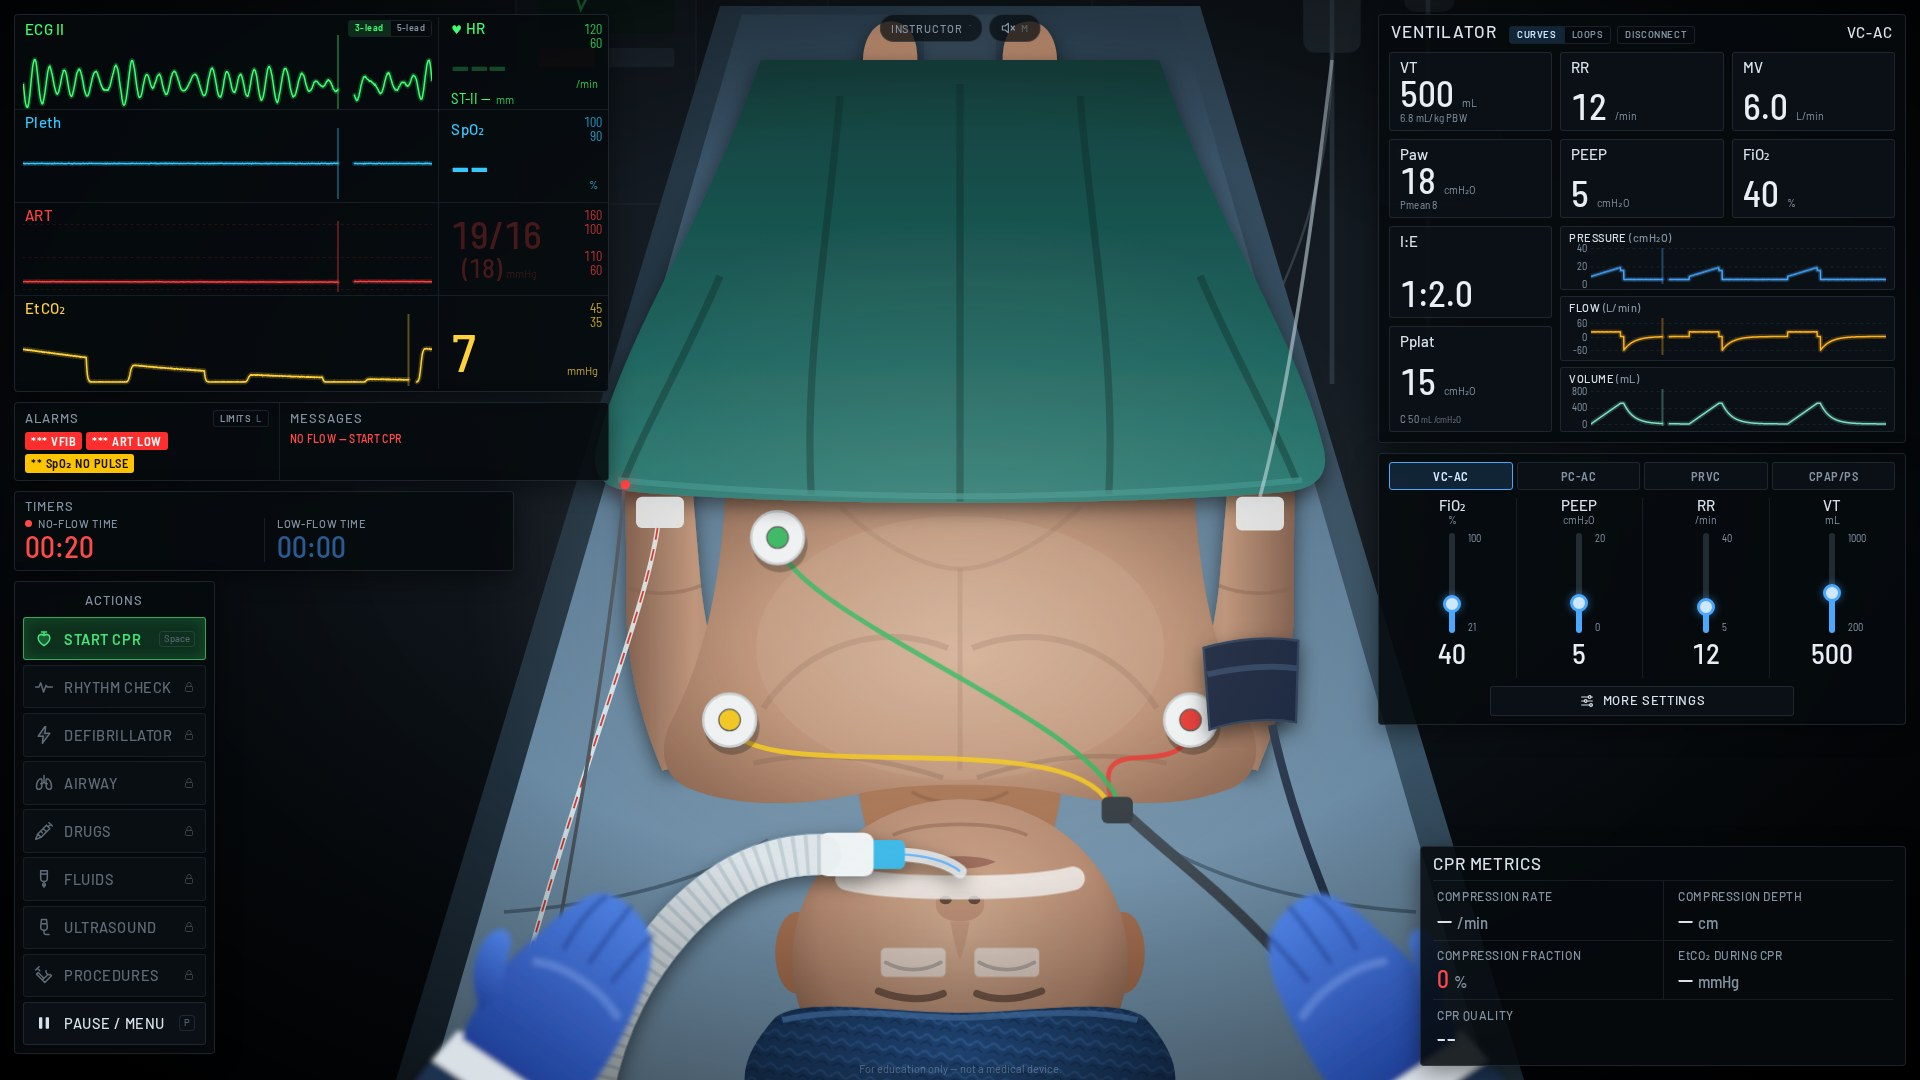
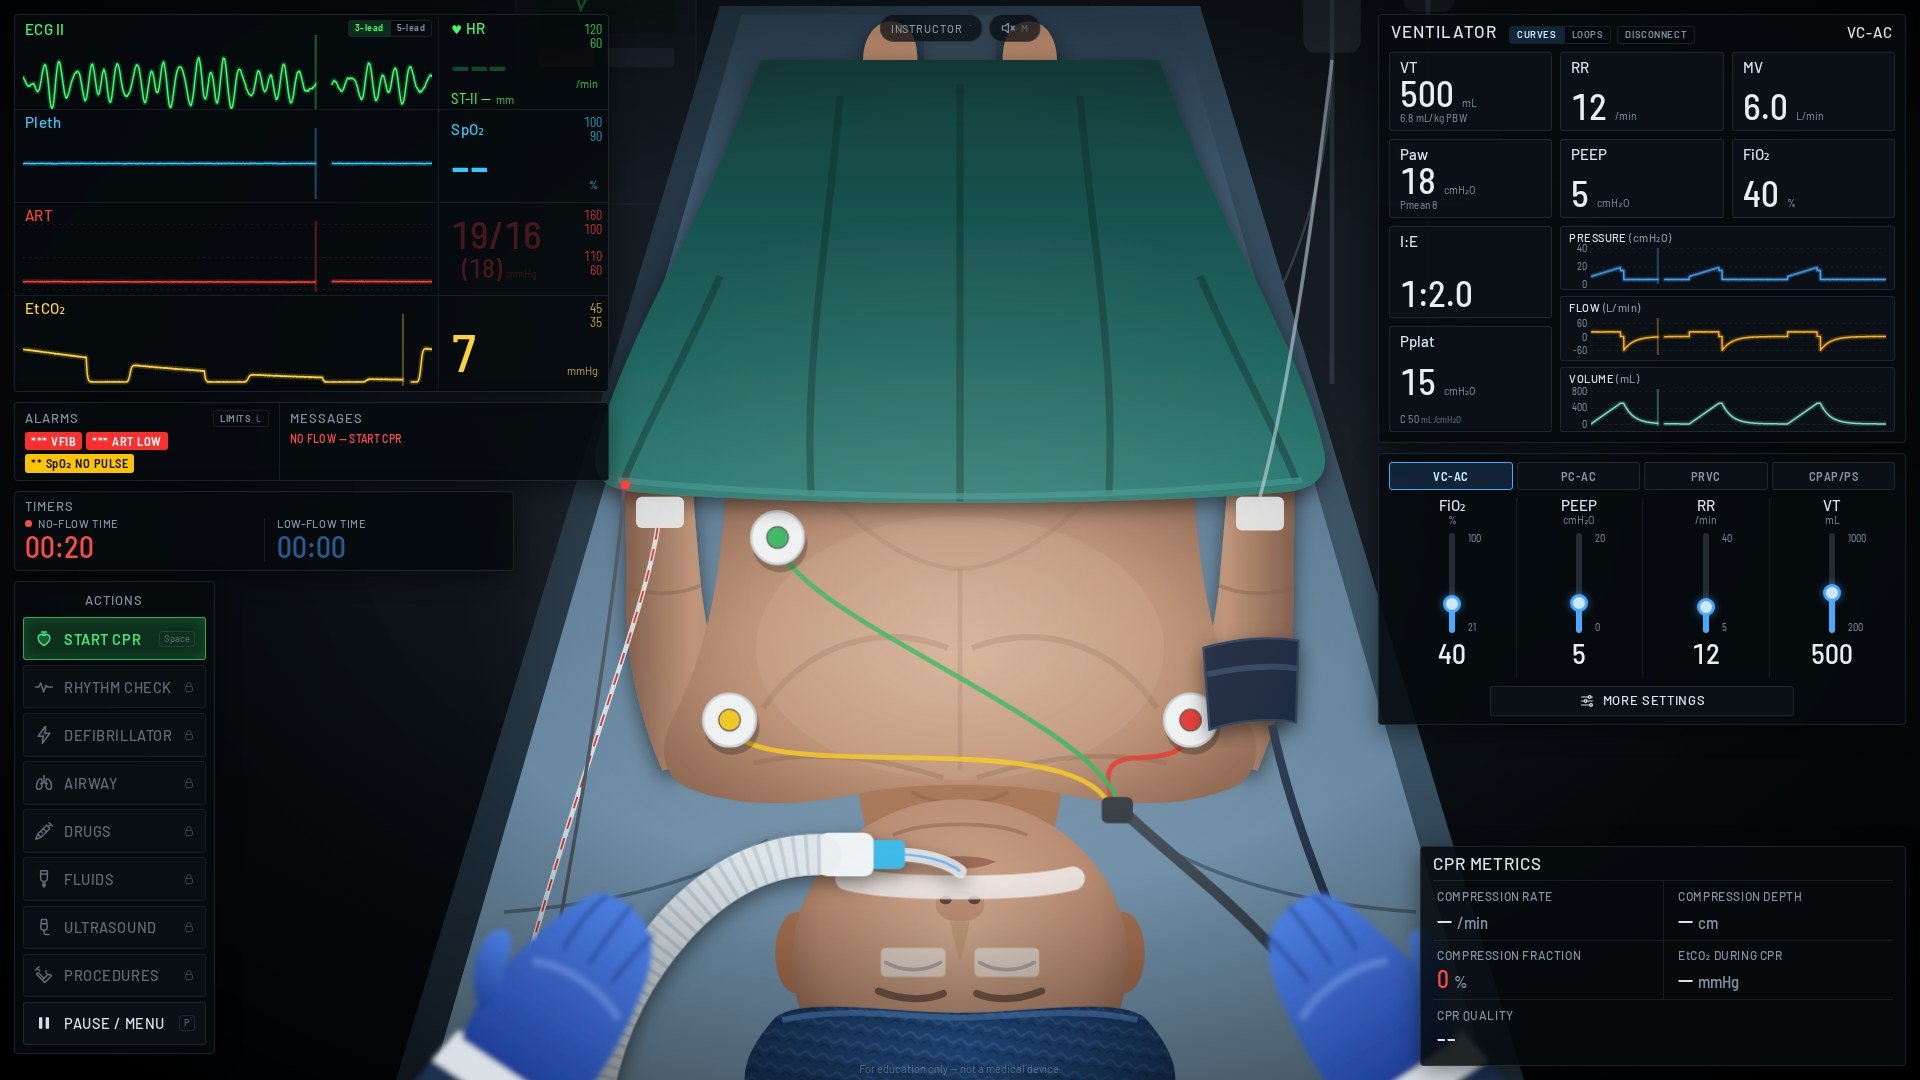
Split HR LOW into medium (below 60) and high priority (below bradycardia limit 45)
Adds an adjustable bradycardia limit that works like the desaturation
limit: it stays at least 5/min below HR LOW and is pulled down with it.

Claude-Session: https://claude.ai/code/session_01VvDhrbZNjq1jLKeWpgn4kZ

Changed region(s): [[0.0, 0.0611, 0.25, 0.0917], [0.1562, 0.2444, 0.1875, 0.275], [0.1562, 0.1222, 0.1875, 0.1528]]

diff --git a/src/sim/devices/alarmLimits.ts b/src/sim/devices/alarmLimits.ts
@@ -16,7 +16,8 @@ export interface LimitSpec {
 /**
  * Adjustable monitor alarm limits (defaults chosen for anaesthetised adults: HR 60–120, SYS 100–160, EtCO2
  * 35–45 — tight on purpose; the ranges are what the knob allows).
- * - hr: HR LOW (high priority) / HR HIGH (medium)
+ * - hr: HR LOW (medium) / HR HIGH (medium)
+ * - brady: bradycardia limit — below it HR LOW escalates to high priority
  * - spo2: SpO2 LOW (medium) / SpO2 HIGH (medium, 100 = effectively off)
  * - desat: desaturation limit — below it SpO2 LOW escalates to high priority
  * - artSys, artMean: ART LOW (high) / ART HIGH (medium) when systolic or mean is outside its limits
@@ -29,6 +30,7 @@ export const ALARM_LIMIT_SPECS: Record<AlarmLimitParam, LimitSpec> = {
     low: { min: 25, max: 150, step: 5, default: 60 },
     high: { min: 60, max: 220, step: 5, default: 120 },
   },
+  brady: { unit: '/min', low: { min: 20, max: 145, step: 5, default: 45 } },
   spo2: {
     unit: '%',
     low: { min: 70, max: 99, step: 1, default: 90 },
@@ -71,9 +73,19 @@ function snap(v: number, r: LimitRange): number {
 }
 
 /**
+ * Critical (high-priority) companion limits: each sits below its parent's LOW limit by at least `gap`.
+ * Between the two limits the parent's LOW alarm is medium priority; below the critical limit it is high.
+ */
+const CRITICAL: Partial<Record<AlarmLimitParam, { parent: AlarmLimitParam; gap: number }>> = {
+  brady: { parent: 'hr', gap: 5 },
+  desat: { parent: 'spo2', gap: 1 },
+};
+
+/**
  * Set one bound and return the new limits. Values are snapped to the knob step and clamped to the range; a low
- * limit always stays at least one step below the high limit (and the desaturation limit below SpO2 LOW), like
- * a real monitor that refuses crossed limits. Invalid input leaves the limits unchanged.
+ * limit always stays at least one step below the high limit, and a critical limit (bradycardia, desaturation)
+ * below its parent's LOW limit, like a real monitor that refuses crossed limits. Invalid input leaves the
+ * limits unchanged.
  */
 export function setAlarmLimit(
   limits: AlarmLimits,
@@ -88,13 +100,22 @@ export function setAlarmLimit(
   const cur = limits[param];
   if (bound === 'low' && cur.high !== null) v = Math.min(v, cur.high - range.step);
   if (bound === 'high' && cur.low !== null) v = Math.max(v, cur.low + range.step);
-  if (param === 'desat' && limits.spo2.low !== null) v = Math.min(v, limits.spo2.low - 1);
+  const crit = CRITICAL[param];
+  const parentLow = crit ? limits[crit.parent].low : null;
+  if (crit && parentLow !== null) v = Math.min(v, parentLow - crit.gap);
   v = snap(v, range);
   const next: AlarmLimits = { ...limits, [param]: { ...cur, [bound]: v } };
-  // Raising SpO2 LOW never leaves the desaturation limit above it, and lowering it pulls desat along.
-  if (param === 'spo2' && bound === 'low' && next.desat.low !== null && next.desat.low >= v) {
-    const d = ALARM_LIMIT_SPECS.desat.low;
-    if (d) next.desat = { low: snap(v - 1, d), high: null };
+  // Lowering a parent's LOW limit pulls its critical limit along so it always stays below.
+  if (bound === 'low') {
+    for (const [child, c] of Object.entries(CRITICAL) as [
+      AlarmLimitParam,
+      { parent: AlarmLimitParam; gap: number },
+    ][]) {
+      const childRange = ALARM_LIMIT_SPECS[child].low;
+      const childLow = next[child].low;
+      if (c.parent === param && childRange && childLow !== null && childLow > v - c.gap)
+        next[child] = { low: snap(v - c.gap, childRange), high: null };
+    }
   }
   return next;
 }

diff --git a/src/ui/adapters/alarmLimitsViewModel.ts b/src/ui/adapters/alarmLimitsViewModel.ts
@@ -17,6 +17,7 @@ export interface AlarmLimitRow {
 
 const COLOR: Record<AlarmLimitParam, string> = {
   hr: '--ecg',
+  brady: '--ecg',
   spo2: '--spo2',
   desat: '--spo2',
   artSys: '--art',
@@ -27,6 +28,7 @@ const COLOR: Record<AlarmLimitParam, string> = {
 
 const ALARMS: Record<AlarmLimitParam, AlarmId[]> = {
   hr: ['HR_LOW', 'HR_HIGH'],
+  brady: [],
   spo2: ['SPO2_LOW', 'SPO2_HIGH'],
   desat: [],
   artSys: ['ART_LOW', 'ART_HIGH'],
@@ -51,6 +53,7 @@ export function alarmLimitsViewModel(s: Readonly<SimulationState>): { rows: Alar
         );
   const now: Record<AlarmLimitParam, string> = {
     hr: num(n.hr),
+    brady: num(n.hr),
     spo2: num(n.spo2),
     desat: num(n.spo2),
     artSys: num(n.artSys),
@@ -58,7 +61,7 @@ export function alarmLimitsViewModel(s: Readonly<SimulationState>): { rows: Alar
     etco2: num(n.etco2),
     st: formatSt(worstSt),
   };
-  const desatAlarm = mon.alarms.some((a) => a.id === 'SPO2_LOW' && a.priority === 'high');
+  const critical = (id: AlarmId) => mon.alarms.some((a) => a.id === id && a.priority === 'high');
   return {
     rows: ALARM_LIMIT_PARAMS.map((param) => ({
       param,
@@ -67,7 +70,12 @@ export function alarmLimitsViewModel(s: Readonly<SimulationState>): { rows: Alar
       low: mon.alarmLimits[param].low,
       high: mon.alarmLimits[param].high,
       now: now[param],
-      alarming: param === 'desat' ? desatAlarm : ALARMS[param].some((id) => active.has(id)),
+      alarming:
+        param === 'desat'
+          ? critical('SPO2_LOW')
+          : param === 'brady'
+            ? critical('HR_LOW')
+            : ALARMS[param].some((id) => active.has(id)),
     })),
   };
 }

diff --git a/src/sim/__tests__/alarmLimits.test.ts b/src/sim/__tests__/alarmLimits.test.ts
@@ -150,3 +150,31 @@ describe('alarm limits: engine', () => {
     expect(fired).toBe(true);
   });
 });
+
+describe('alarm limits: bradycardia escalation', () => {
+  it('HR LOW is medium between the HR low limit and the bradycardia limit, high below it', () => {
+    const d = defaultAlarmLimits();
+    expect(d.brady).toEqual({ low: 45, high: null });
+    const e = createEngine();
+    e.runFor(10);
+    // Push the patient's rate between the limits by raising the limits instead (HR 80).
+    e.dispatch({ type: 'SET_ALARM_LIMIT', param: 'hr', bound: 'low', value: 90 });
+    e.runFor(2);
+    let a = e.getSnapshot().devices.monitor.alarms.find((x) => x.id === 'HR_LOW');
+    expect(a?.priority).toBe('medium');
+    e.dispatch({ type: 'SET_ALARM_LIMIT', param: 'hr', bound: 'low', value: 110 });
+    e.dispatch({ type: 'SET_ALARM_LIMIT', param: 'brady', bound: 'low', value: 100 });
+    e.runFor(2);
+    a = e.getSnapshot().devices.monitor.alarms.find((x) => x.id === 'HR_LOW');
+    expect(a?.priority).toBe('high');
+  });
+
+  it('keeps the bradycardia limit at least 5/min below HR LOW', () => {
+    let l = defaultAlarmLimits();
+    l = setAlarmLimit(l, 'brady', 'low', 80);
+    expect(l.brady.low).toBe(55);
+    l = setAlarmLimit(l, 'hr', 'low', 40);
+    expect(l.hr.low).toBe(40);
+    expect(l.brady.low).toBe(35);
+  });
+});

diff --git a/src/sim/devices/AlarmEngine.ts b/src/sim/devices/AlarmEngine.ts
@@ -12,7 +12,7 @@ const PRIORITY: Record<AlarmId, AlarmPriority> = {
   SPO2_NO_PULSE: 'medium',
   SPO2_LOW: 'medium',
   SPO2_HIGH: 'medium',
-  HR_LOW: 'high',
+  HR_LOW: 'medium',
   HR_HIGH: 'medium',
   ST_DEVIATION: 'medium',
   ETCO2_LOW: 'medium',
@@ -57,9 +57,12 @@ export class AlarmEngine {
     if (below(n.etco2, lim.etco2.low)) active.add('ETCO2_LOW');
     if (above(n.etco2, lim.etco2.high)) active.add('ETCO2_HIGH');
 
-    // Below the desaturation limit SpO2 LOW becomes a high-priority alarm.
-    const priorityOf = (id: AlarmId): AlarmPriority =>
-      id === 'SPO2_LOW' && below(spo2, lim.desat.low) ? 'high' : PRIORITY[id];
+    // Below the desaturation / bradycardia limit, SpO2 LOW / HR LOW become high-priority alarms.
+    const priorityOf = (id: AlarmId): AlarmPriority => {
+      if (id === 'SPO2_LOW' && below(spo2, lim.desat.low)) return 'high';
+      if (id === 'HR_LOW' && below(n.hr, lim.brady.low)) return 'high';
+      return PRIORITY[id];
+    };
     const kept: Alarm[] = mon.alarms
       .filter((a) => active.has(a.id))
       .map((a) => ({ ...a, priority: priorityOf(a.id) }));

diff --git a/src/sim/state/MonitorState.ts b/src/sim/state/MonitorState.ts
@@ -16,12 +16,13 @@ export type AlarmId =
   | 'ETCO2_HIGH';
 
 /** Parameters with adjustable alarm limits. */
-export type AlarmLimitParam = 'hr' | 'spo2' | 'desat' | 'artSys' | 'artMean' | 'etco2' | 'st';
+export type AlarmLimitParam =
+  'hr' | 'brady' | 'spo2' | 'desat' | 'artSys' | 'artMean' | 'etco2' | 'st';
 export type AlarmLimitBound = 'low' | 'high';
 
 /**
- * Monitor alarm limits (device settings). Units: hr /min; spo2, desat %; artSys, artMean, etco2 mmHg;
- * st mm (± around 0). null = this parameter has no such bound (desat: low only; st: high only).
+ * Monitor alarm limits (device settings). Units: hr, brady /min; spo2, desat %; artSys, artMean, etco2 mmHg;
+ * st mm (± around 0). null = this parameter has no such bound (brady, desat: low only; st: high only).
  */
 export type AlarmLimits = Record<AlarmLimitParam, { low: number | null; high: number | null }>;
 

diff --git a/src/content/i18n/de.ts b/src/content/i18n/de.ts
@@ -54,6 +54,7 @@ export const de: Record<I18nKey, string> = {
   'limits.param.hr': 'Herzfrequenz',
   'limits.param.spo2': 'SpO₂',
   'limits.param.desat': 'Desaturation (hohe Priorität)',
+  'limits.param.brady': 'Bradykardie (hohe Priorität)',
   'limits.param.artSys': 'ART systolisch',
   'limits.param.artMean': 'ART Mitteldruck',
   'limits.param.etco2': 'EtCO₂',

diff --git a/src/content/i18n/en.ts b/src/content/i18n/en.ts
@@ -52,6 +52,7 @@ export const en = {
   'limits.param.hr': 'Heart rate',
   'limits.param.spo2': 'SpO₂',
   'limits.param.desat': 'Desaturation (high priority)',
+  'limits.param.brady': 'Bradycardia (high priority)',
   'limits.param.artSys': 'ART systolic',
   'limits.param.artMean': 'ART mean',
   'limits.param.etco2': 'EtCO₂',

diff --git a/src/ui/adapters/adapters.test.ts b/src/ui/adapters/adapters.test.ts
@@ -137,6 +137,7 @@ describe('alarm limits view model', () => {
     let rows = alarmLimitsViewModel(e.getSnapshot()).rows;
     expect(rows.map((r) => r.param)).toEqual([
       'hr',
+      'brady',
       'spo2',
       'desat',
       'artSys',

diff --git a/docs/SIMULATION_ASSUMPTIONS.md b/docs/SIMULATION_ASSUMPTIONS.md
@@ -157,9 +157,9 @@ simulation state and shown in the instructor panel.
 | PEA | organised broad complexes (QRS ≈ 160 ms, broad T, no P), ±3 % R–R, no ejection | One representative hypoxic morphology. |
 | ECG compression artefact | 0.9 mV biphasic at 5.3 cm | The rhythm cannot be assessed while compressing. |
 | Arrhythmia detection | perfect: HR "---" in VF, 0 in asystole; in PEA the monitor counts the complexes | Real monitors can misclassify. Later milestones may add artefact-driven errors. |
-| Alarm limits (adjustable, logged) | Defaults: HR 60–120/min, SpO₂ 90–100 %, desaturation 85 %, ART systolic 100–160 and mean 60–110 mmHg, EtCO₂ 35–45 mmHg, ST ±2 mm. Knob steps 5 /min, 1 %, 5 mmHg, 1 mmHg, 0.5 mm; low always ≥ 1 step below high; desat below SpO₂ LOW | Chosen by the clinical lead for anaesthetised adults (tight EtCO₂ window = normocapnia); adjustable per case. |
-| Alarm priorities | HR LOW, ART LOW, SpO₂ below desat: high; HR HIGH, ART HIGH, SpO₂ LOW/HIGH, EtCO₂ LOW/HIGH, ST: medium. EtCO₂ LOW only while breaths are detected (disconnection → APNEA, not EtCO₂ LOW) | Common monitor behaviour. |
-| AutoLimits | HR −25 %/+25 % (+10), systolic ±25 %, mean −20 %/+25 %, SpO₂ low = value − 4 (88–96), EtCO₂ ±8 mmHg; desat and ST unchanged | Similar in spirit to commercial auto-limit functions; exact vendor formulas differ. |
+| Alarm limits (adjustable, logged) | Defaults: HR 60–120/min, bradycardia 45/min, SpO₂ 90–100 %, desaturation 85 %, ART systolic 100–160 and mean 60–110 mmHg, EtCO₂ 35–45 mmHg, ST ±2 mm. Knob steps 5 /min, 1 %, 5 mmHg, 1 mmHg, 0.5 mm; low always ≥ 1 step below high; bradycardia ≥ 5/min below HR LOW, desat ≥ 1 % below SpO₂ LOW | Chosen by the clinical lead for anaesthetised adults (tight EtCO₂ window = normocapnia); adjustable per case. |
+| Alarm priorities | HR below the bradycardia limit, ART LOW, SpO₂ below desat: high; HR LOW (above the bradycardia limit), HR HIGH, ART HIGH, SpO₂ LOW/HIGH, EtCO₂ LOW/HIGH, ST: medium. EtCO₂ LOW only while breaths are detected (disconnection → APNEA, not EtCO₂ LOW) | Common monitor behaviour. |
+| AutoLimits | HR −25 %/+25 % (+10), systolic ±25 %, mean −20 %/+25 %, SpO₂ low = value − 4 (88–96), EtCO₂ ±8 mmHg; bradycardia, desat and ST unchanged (pulled down if needed) | Similar in spirit to commercial auto-limit functions; exact vendor formulas differ. |
 | PPV | (PPmax − PPmin)/mean PP over the beats of the last 15 s; sinus rhythm, no CPR | As on monitors with PPV. |
 | Monitor numerics | HR from the last 5 R–R intervals; ART max/min/mean over 3 s; refresh 1 Hz; EtCO₂ = peak CO₂ per breath, "--" (never 0) when no breath passes the sensor for 15 s (disconnection) | Similar to commercial monitors. |
 | Pleth | ART delayed 0.22 s, baseline-removed, low-passed 50 ms; gain (CO/5)^2; SpO₂ shown only if perfusion index ≥ 0.15 | Unreadable during CPR and in low-output states; still readable at CO ≈ 3 L/min. |

diff --git a/README.md b/README.md
@@ -94,8 +94,9 @@ URL options: `?autostart` skips the briefing, `?lang=de` starts in German, `?deb
   heart–lung model (O₂ supply/demand), so hypoxaemic tachycardia depresses ST, most in V5. Lower the myocardial
   reserve in the instructor panel to simulate a coronary patient.
 - **Adjustable alarm limits.** Every numeric shows its limits in small print (upper over lower). Click a value
-  on the monitor, press <kbd>L</kbd> or use **LIMITS** in the alarm field to change them. Limits cover HR, SpO₂,
-  desaturation (high priority), ART systolic and mean, EtCO₂ and ST. **Auto** sets limits around the current
+  on the monitor, press <kbd>L</kbd> or use **LIMITS** in the alarm field to change them. Limits cover HR, bradycardia (high
+  priority), SpO₂, desaturation (high priority), ART systolic and mean, EtCO₂ and ST. Between HR LOW and the
+  bradycardia limit the alarm is yellow; below it, red. **Auto** sets limits around the current
   values and **Defaults** restores the adult defaults. Every change is logged for the debrief.
 - New cases: **Silent disconnection** (hypoxic arrest if unnoticed) and **Breath stacking in severe asthma**
   (low-flow PEA unless expiration is lengthened or the tube is briefly disconnected). The ventilator header has a
